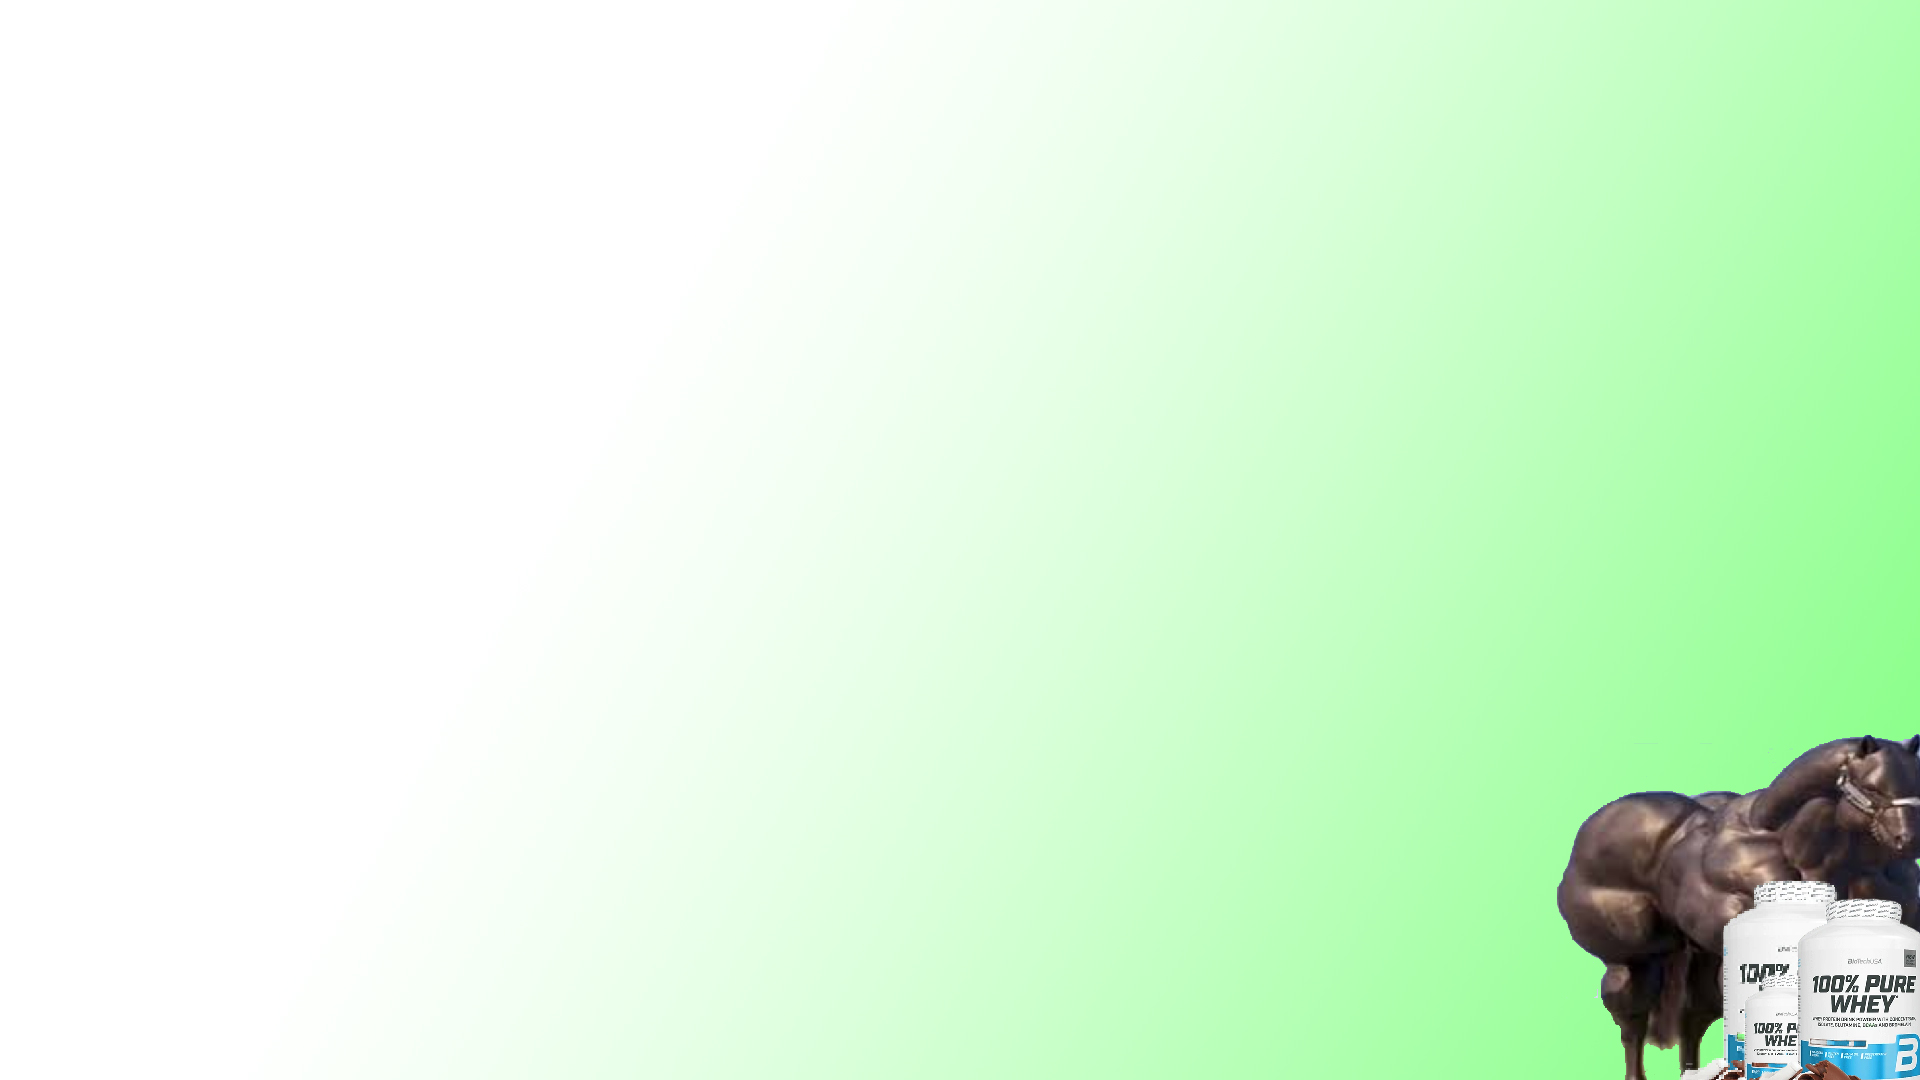
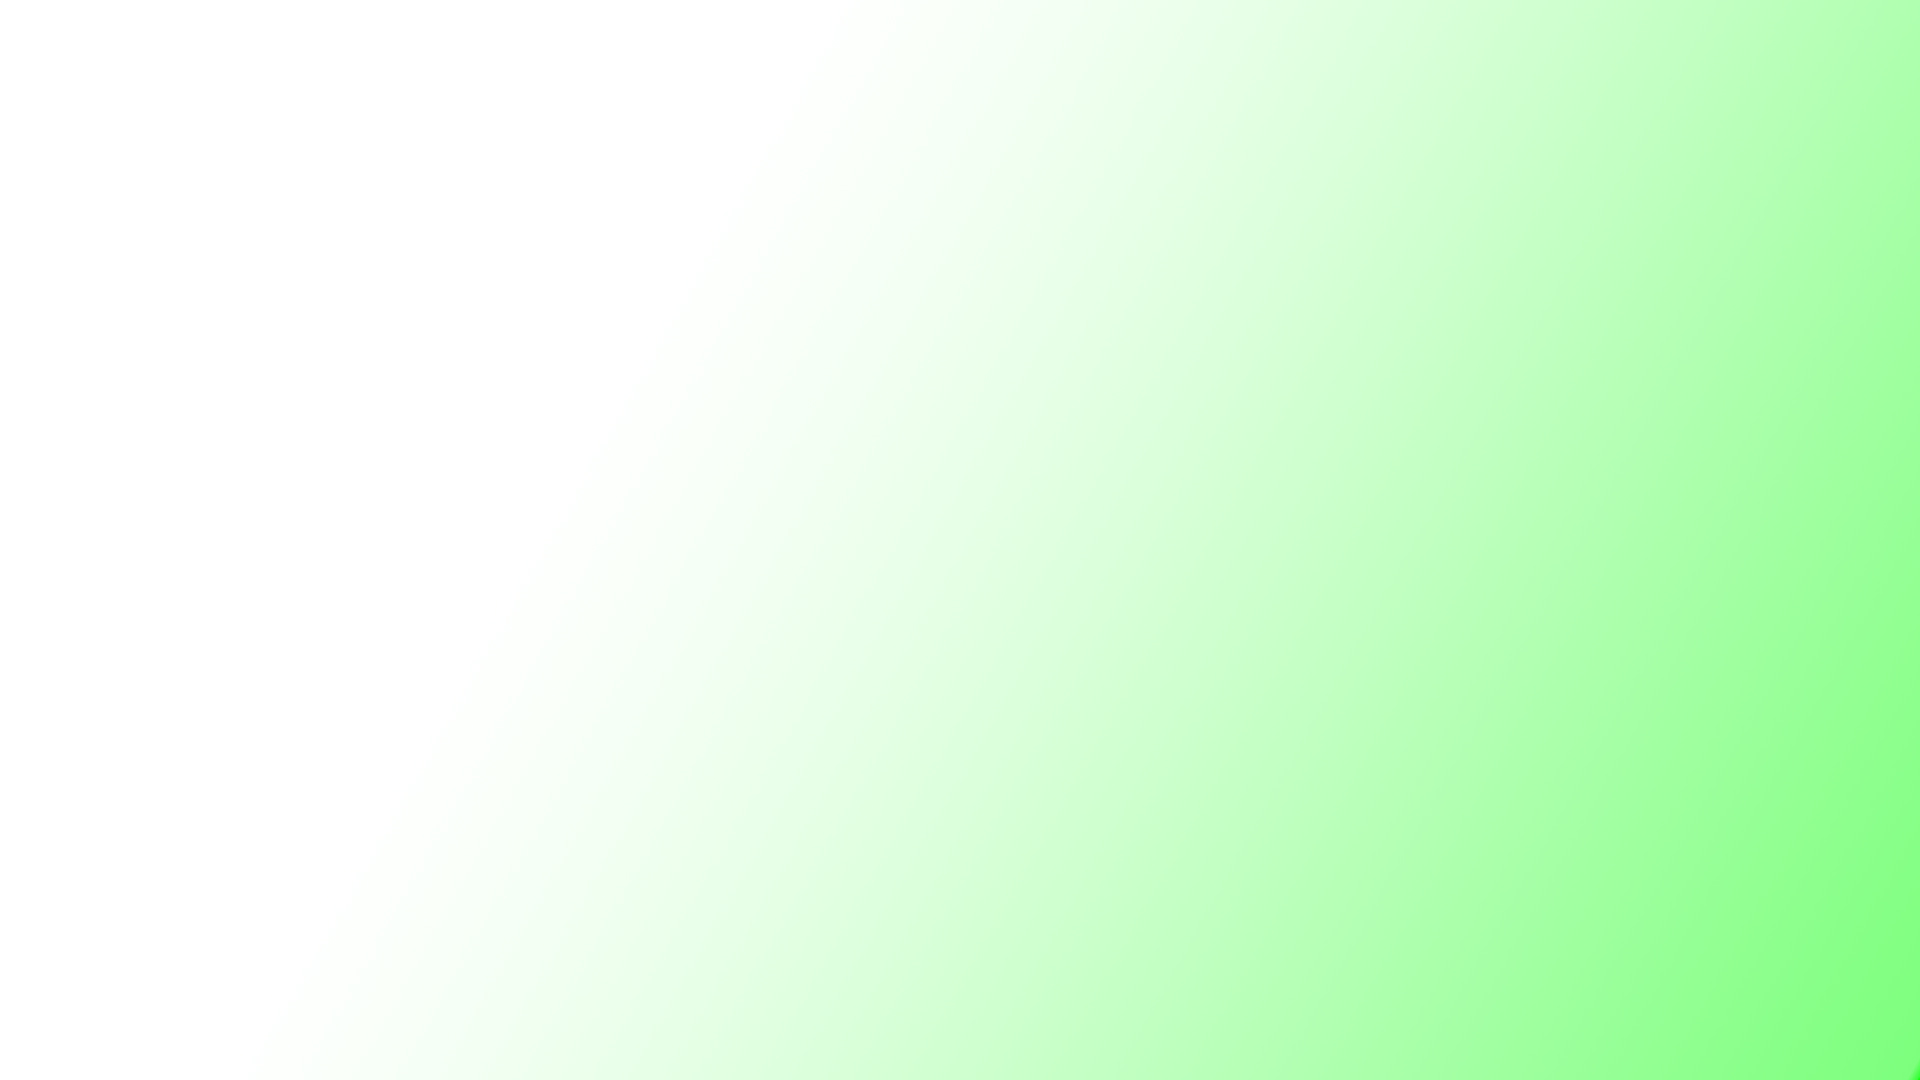
Új háttér

Changed region(s): [[0.8125, 0.6722, 1.0, 1.0]]

diff --git a/kox/templates/beviteli-mezo.html b/kox/templates/beviteli-mezo.html
@@ -15,7 +15,7 @@
 		<a href="adatok" >Adatok</a>
 		<a href="grafikonok">Grafikonok</a>
 	</header>
-	<div>
+	<div class="bg">
 		<div>
 			<form action="backend/save_intake" method="POST">
 				{% csrf_token %}
@@ -48,11 +48,17 @@
 			</form>
 		</div>
 	</div>
-	<div>
-		
-	</div>
-<footer class="footer">
-	
-</footer>
+<footer class="footer-dark">
+            <div class="container">
+                <div class="row">
+                    <div class="info">
+                        <h3>Kox.hu</h3>
+                        <p>Random szöveg I guess</p>
+                    </div>
+                    <div class="col item social"><a href="#"><i class="icon ion-social-facebook"></i></a><a href="#"><i class="icon ion-social-twitter"></i></a><a href="#"><i class="icon ion-social-snapchat"></i></a><a href="#"><i class="icon ion-social-instagram"></i></a></div>
+                 </div>
+                <p class="copyright">Kox.hu © 2021</p>
+            </div>
+        </footer>
 </body>
 </html>

diff --git a/kox/koxapp/static/css/main.css b/kox/koxapp/static/css/main.css
@@ -8,9 +8,14 @@ body{
 	min-height:100vh;
 	margin:0;
 	position:relative;
-	background: url(../img/háttér.jpg);
+		background: url(../img/háttér.jpg);
 	background-repeat: no-repeat;
+  	background-attachment: fixed;
+ 	background-size: cover;
+	
+
 }
+
 
 .button {
   font: bold 11px Arial;
@@ -24,7 +29,7 @@ body{
   border-left: 1px solid #CCCCCC;
 }
 
-/*.footer-dark {
+.footer-dark {
   padding:0px 20px;
   padding-left: 20px;
   padding-right: 20px;
@@ -107,9 +112,9 @@ body{
   opacity:0.3;
   font-size:13px;
   margin-bottom:0;
-}*/
+}
 
-.footer {
+/*.footer {
 position: fixed;
 left: 0;
 bottom: 0;
@@ -117,4 +122,4 @@ width: 100%;
 background-color: gray;
 color: white;
 text-align: center;
-}
+}*/

diff --git a/kox/templates/bejelentkezes.html b/kox/templates/bejelentkezes.html
@@ -9,6 +9,7 @@
 	<link rel="stylesheet" type="text/css" href="/static/css/bejelentkezes.css">
 </head>
 <body>
+	<div>
 		<div>
 			<p>
 				{% if login_error %}
@@ -25,8 +26,9 @@
 			</form>
 			<a href="regisztracio" class="button">Regisztráció</a>
 		</div>
-<footer class="footer">
-	
+	</div>
+	<footer class="footer">
+	<p>Indeed</p>
 </footer>
 </body>
 </html>
